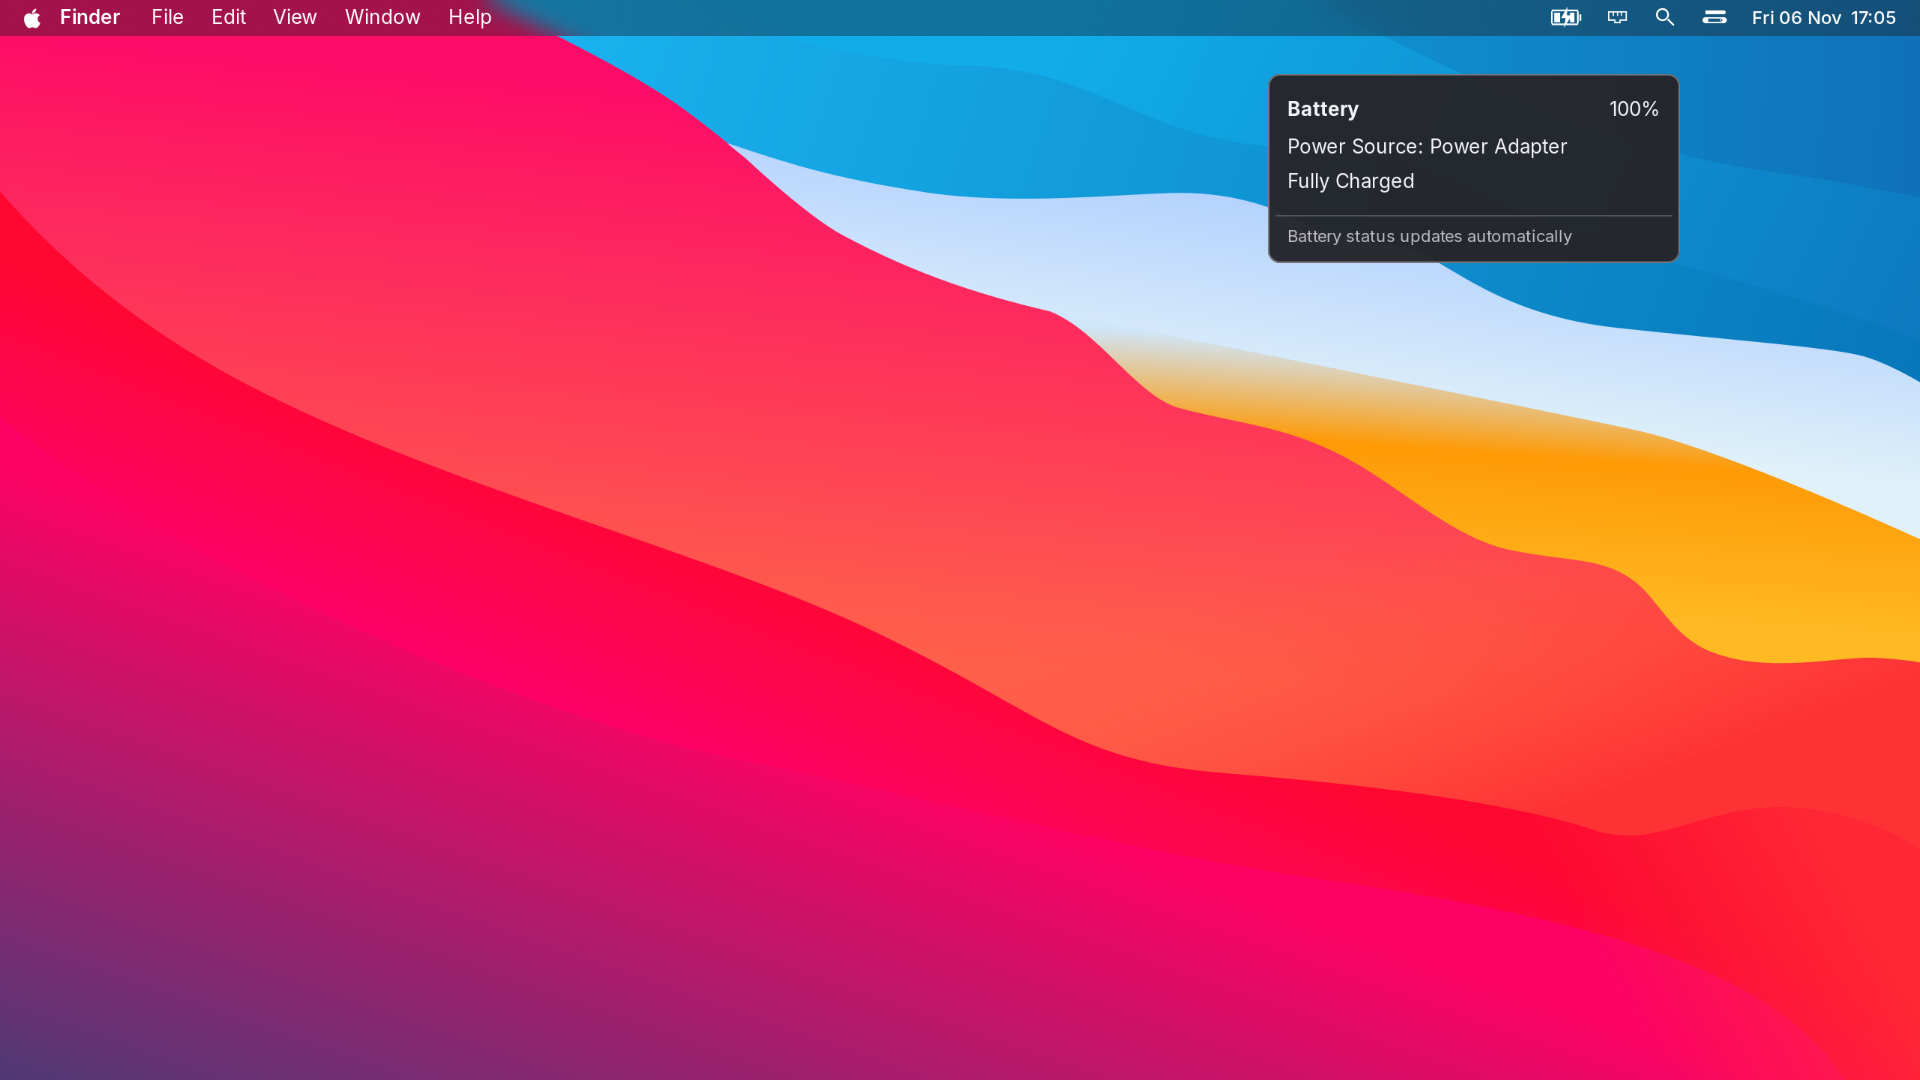
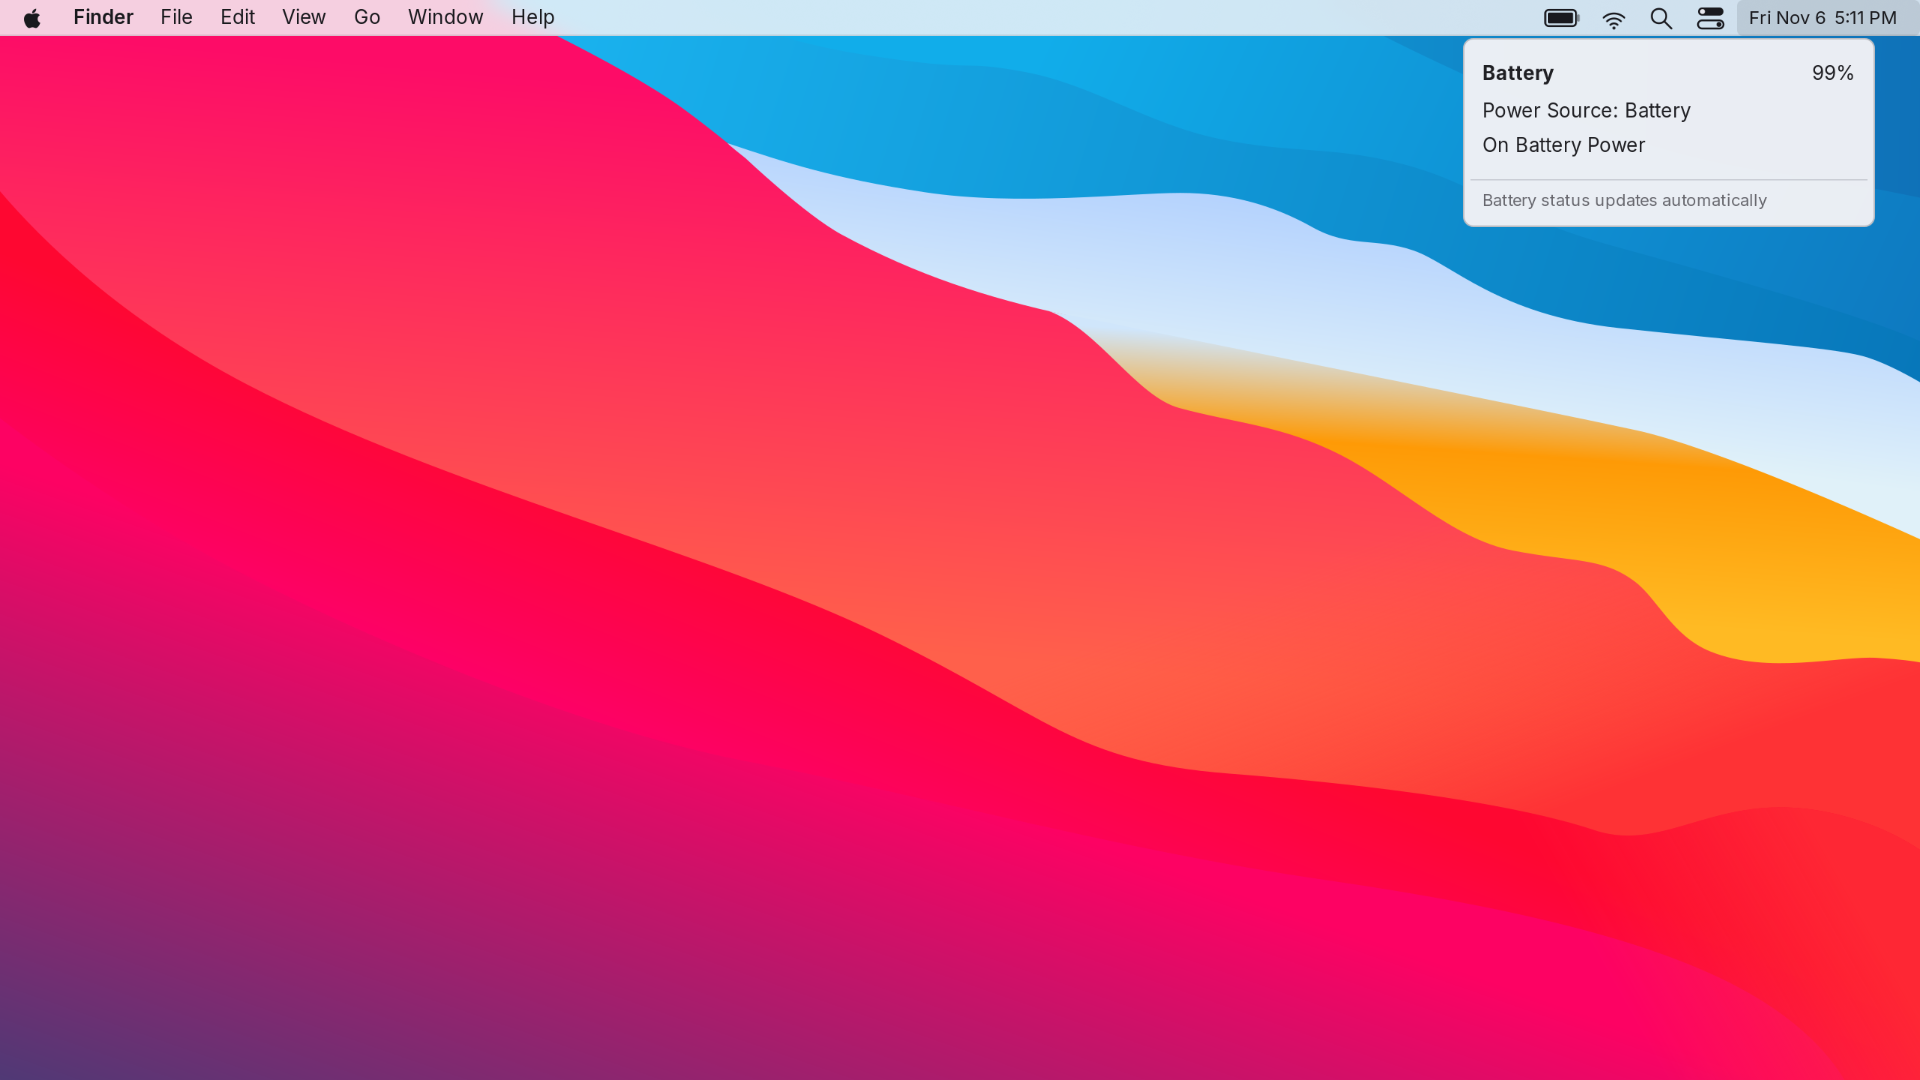
Replace default top bar with native frosted Mac-style menu bar

Changed region(s): [[0.0, 0.0, 1.0, 0.2444]]

diff --git a/docs/REFERENCE.md b/docs/REFERENCE.md
@@ -32,11 +32,11 @@ GDM or system-wide files. GTK4 CSS/assets are included in the backed-up template
 | Path | Purpose |
 | --- | --- |
 | `~/.config/hypr/hyprland.lua` | Floating windows, blur, bindings and startup |
-| `~/.config/waybar/` | macOS-style menu bar |
+| `~/.local/bin/macos-menubar` | Native GTK/Cairo macOS-style menu bar (Waybar config remains as fallback) |
 | `~/.local/bin/macos-dock` | GTK layer-shell dock with launch/focus actions |
 | `~/.local/bin/macos-menu` | Apple/shortcut/window/control menus |
 | `~/.local/bin/macos-app-name` | Active app label for Waybar |
-| `~/.local/bin/arch-start` | Session daemons and dock startup |
+| `~/.local/bin/arch-start` | Session daemons, native menu bar and dock startup |
 | `~/.config/gtk-3.0`, `~/.config/gtk-4.0` | WhiteSur application styling |
 | `~/.config/kdeglobals` | Matching Qt palette, icons and fonts |
 | `~/.config/environment.d/60-macos-desktop.conf` | Cursor and GTK CSD preferences |
@@ -103,6 +103,6 @@ Licenses and upstream commit pins are listed in [THIRD-PARTY.md](THIRD-PARTY.md)
 
 ## Battery and menu-bar reference
 
-The compact status group follows the Big Sur/Sonoma menu-bar layout. Original glyphs are bundled in MacDesktopSymbols.ttf to avoid image-loader issues in Waybar 0.15. Battery status is read from Linux power_supply: charging and fully charged on AC show a lightning badge, connected-but-not-charging shows a plug, and unplugged shows charge level. Percentage and power source appear in the live dropdown. The icon does not fake a repeating charge animation. Ethernet and Wi-Fi icons reflect the actual network link.
+The frosted light bar and compact status group follow the Big Sur/Monterey layout. The default bar draws icons directly with Cairo, avoiding Waybar image-loader issues. The previous Waybar configuration remains a fallback. Battery status is read from Linux power_supply: charging and fully charged on AC show a lightning badge; active charging uses green fill, connected-but-not-charging shows a plug, and unplugged shows charge level. Percentage and power source appear in the live dropdown. The icon does not fake a repeating charge animation. Ethernet and Wi-Fi icons reflect the actual network link.
 
 References: [Apple battery status](https://support.apple.com/en-au/guide/mac-help/mchl173fcc57/mac), [Apple Big Sur battery screenshot](https://support.apple.com/en-us/108376), and the [Sonoma screenshot library](https://512pixels.net/projects/aqua-screenshot-library/macos-14-sonoma/).

diff --git a/README.md b/README.md
@@ -13,7 +13,7 @@ for Arch Linux and Hyprland.
 
 ## The desktop
 
-- **Menu bar:** Apple menu, active application name, shortcut menus, original vector status symbols and right-aligned date. Battery updates follow real charging/adapter states; click it for percentage, power source and charging status. Sound and Bluetooth live in Control Center.
+- **Menu bar:** dedicated GTK/Cairo bar with a pale frosted surface, dark text, smoothly drawn status icons, matching dropdowns and a Control Center with working sound/brightness sliders. Battery updates follow real charging/adapter states; click it for percentage, power source and charging status. Sound and Bluetooth live in Control Center.
 - **Dock:** auto-hides until you hover at the bottom edge or press `Super + Alt + D`; Finder-style file manager icon, Launchpad, browser, Terminal, Code, Preview-style PDF viewer, settings, Downloads and Trash. Running apps have indicators; clicking focuses or launches them.
 - **Appearance:** WhiteSur Dark GTK 3/4 styling, WhiteSur icons and cursors, Big Sur-style wallpaper, and Inter UI typography.
 - **Windows:** floating by default, rounded corners, shadows and desktop blur.
@@ -24,7 +24,9 @@ native macOS. Inter substitutes for Apple's San Francisco. The menu bar supplies
 shortcut actions rather than exporting every application's native menus. Linux
 apps retain their own title-bar behavior; styling varies across GTK, Qt and Electron.
 
-![Battery status menu with power source and full-charge state](assets/macos-battery.png)
+![Native Mac-style Control Center](assets/macos-control-center.png)
+
+![Battery status menu with current power source](assets/macos-battery.png)
 
 ## Install
 
